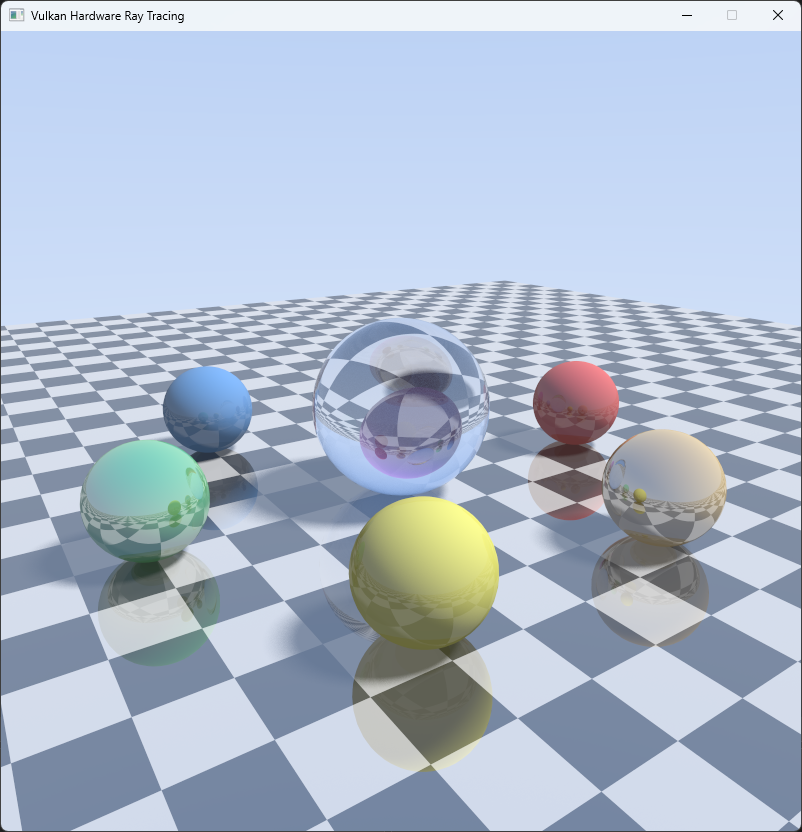
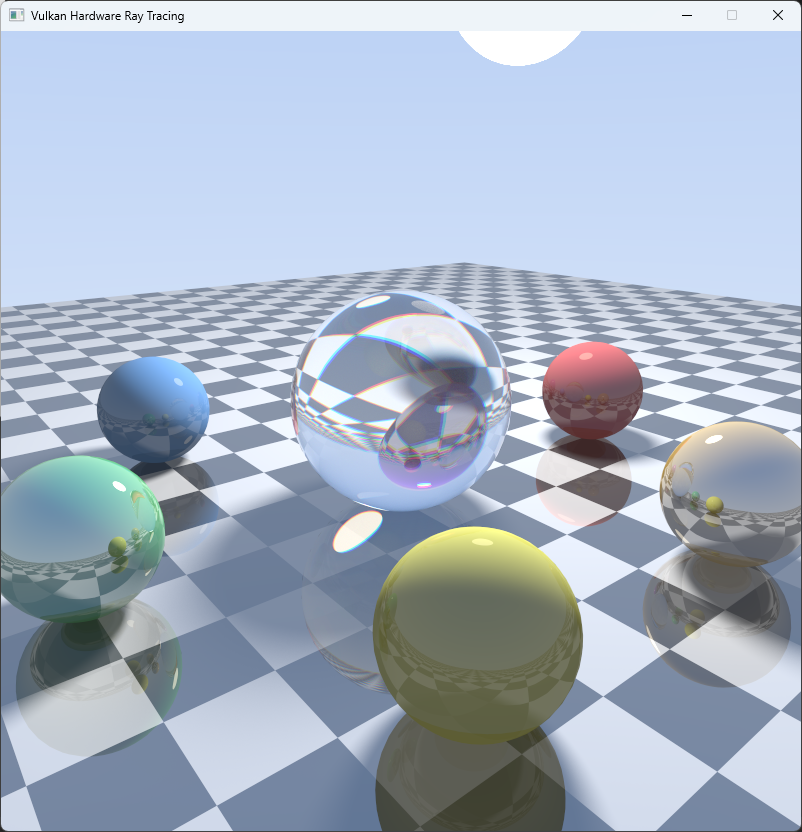
Improvements.

diff --git a/src/main.cpp b/src/main.cpp
@@ -30,8 +30,8 @@
 // -----------------------------------------------------------------------------
 //  Small helpers
 // -----------------------------------------------------------------------------
-static const uint32_t WIDTH  = 1280;
-static const uint32_t HEIGHT = 720;
+static const uint32_t WIDTH  = 800;
+static const uint32_t HEIGHT = 800;
 
 #ifdef NDEBUG
 static const bool kEnableValidation = false;
@@ -188,7 +188,8 @@ private:
     bool  dragging    = false;
     POINT lastMouse{};
     bool  cameraDirty = true;   // forces an accumulation reset
-    uint32_t accumFrame = 0;
+    uint32_t accumFrame = 0;    // resets on camera move (drives the running average)
+    uint32_t totalFrame = 0;    // never resets (drives RNG decorrelation)
 
     // ---- Core Vulkan ----
     VkInstance       instance = VK_NULL_HANDLE;
@@ -725,8 +726,8 @@ private:
             addSphere(c, 0.8f, palette[i], refl);
         }
 
-        // Visible area light (emissive). Must match lightPos/radius in updateUniforms.
-        addSphere({ 4.0f, 7.0f, -2.0f }, 1.6f, { 1.0f, 0.95f, 0.85f }, 0.0f, 3.0f);
+        // Visible area light (emissive). Radius must match lightPos[3] in updateUniforms.
+        addSphere({ 4.0f, 7.0f, -2.0f }, 1.2f, { 1.0f, 0.95f, 0.85f }, 0.0f, 3.0f);
 
         indexCount = (uint32_t)sceneIndices.size();
 
@@ -1180,6 +1181,7 @@ private:
         // Reset accumulation whenever the camera changed; otherwise keep adding samples.
         if (cameraDirty) { accumFrame = 0; cameraDirty = false; }
         else             { accumFrame++; }
+        totalFrame++;   // always advances, so the RNG keeps moving even during motion
 
         Vec3 center{ 0.0f, 1.0f, 0.0f };
         Vec3 up{ 0.0f, 1.0f, 0.0f };
@@ -1197,12 +1199,13 @@ private:
         data.viewInverse = inverse(view);
         data.projInverse = inverse(proj);
         data.lightPos[0] = 4.0f; data.lightPos[1] = 7.0f; data.lightPos[2] = -2.0f;
-        data.lightPos[3] = 1.6f;      // light sphere radius (bigger = softer shadows)
+        data.lightPos[3] = 1.2f;      // light sphere radius (bigger = softer shadows)
         data.params[0] = t;
         data.params[1] = 8.0f;        // max bounces (glass needs a few)
         data.params[2] = 1.4f;        // light intensity
         data.params[3] = 6.0f;        // samples/frame (multiple of 3 for even dispersion)
         data.frame[0]  = accumFrame;
+        data.frame[1]  = totalFrame;
         uploadToBuffer(ubo, &data, sizeof(data));
     }
 